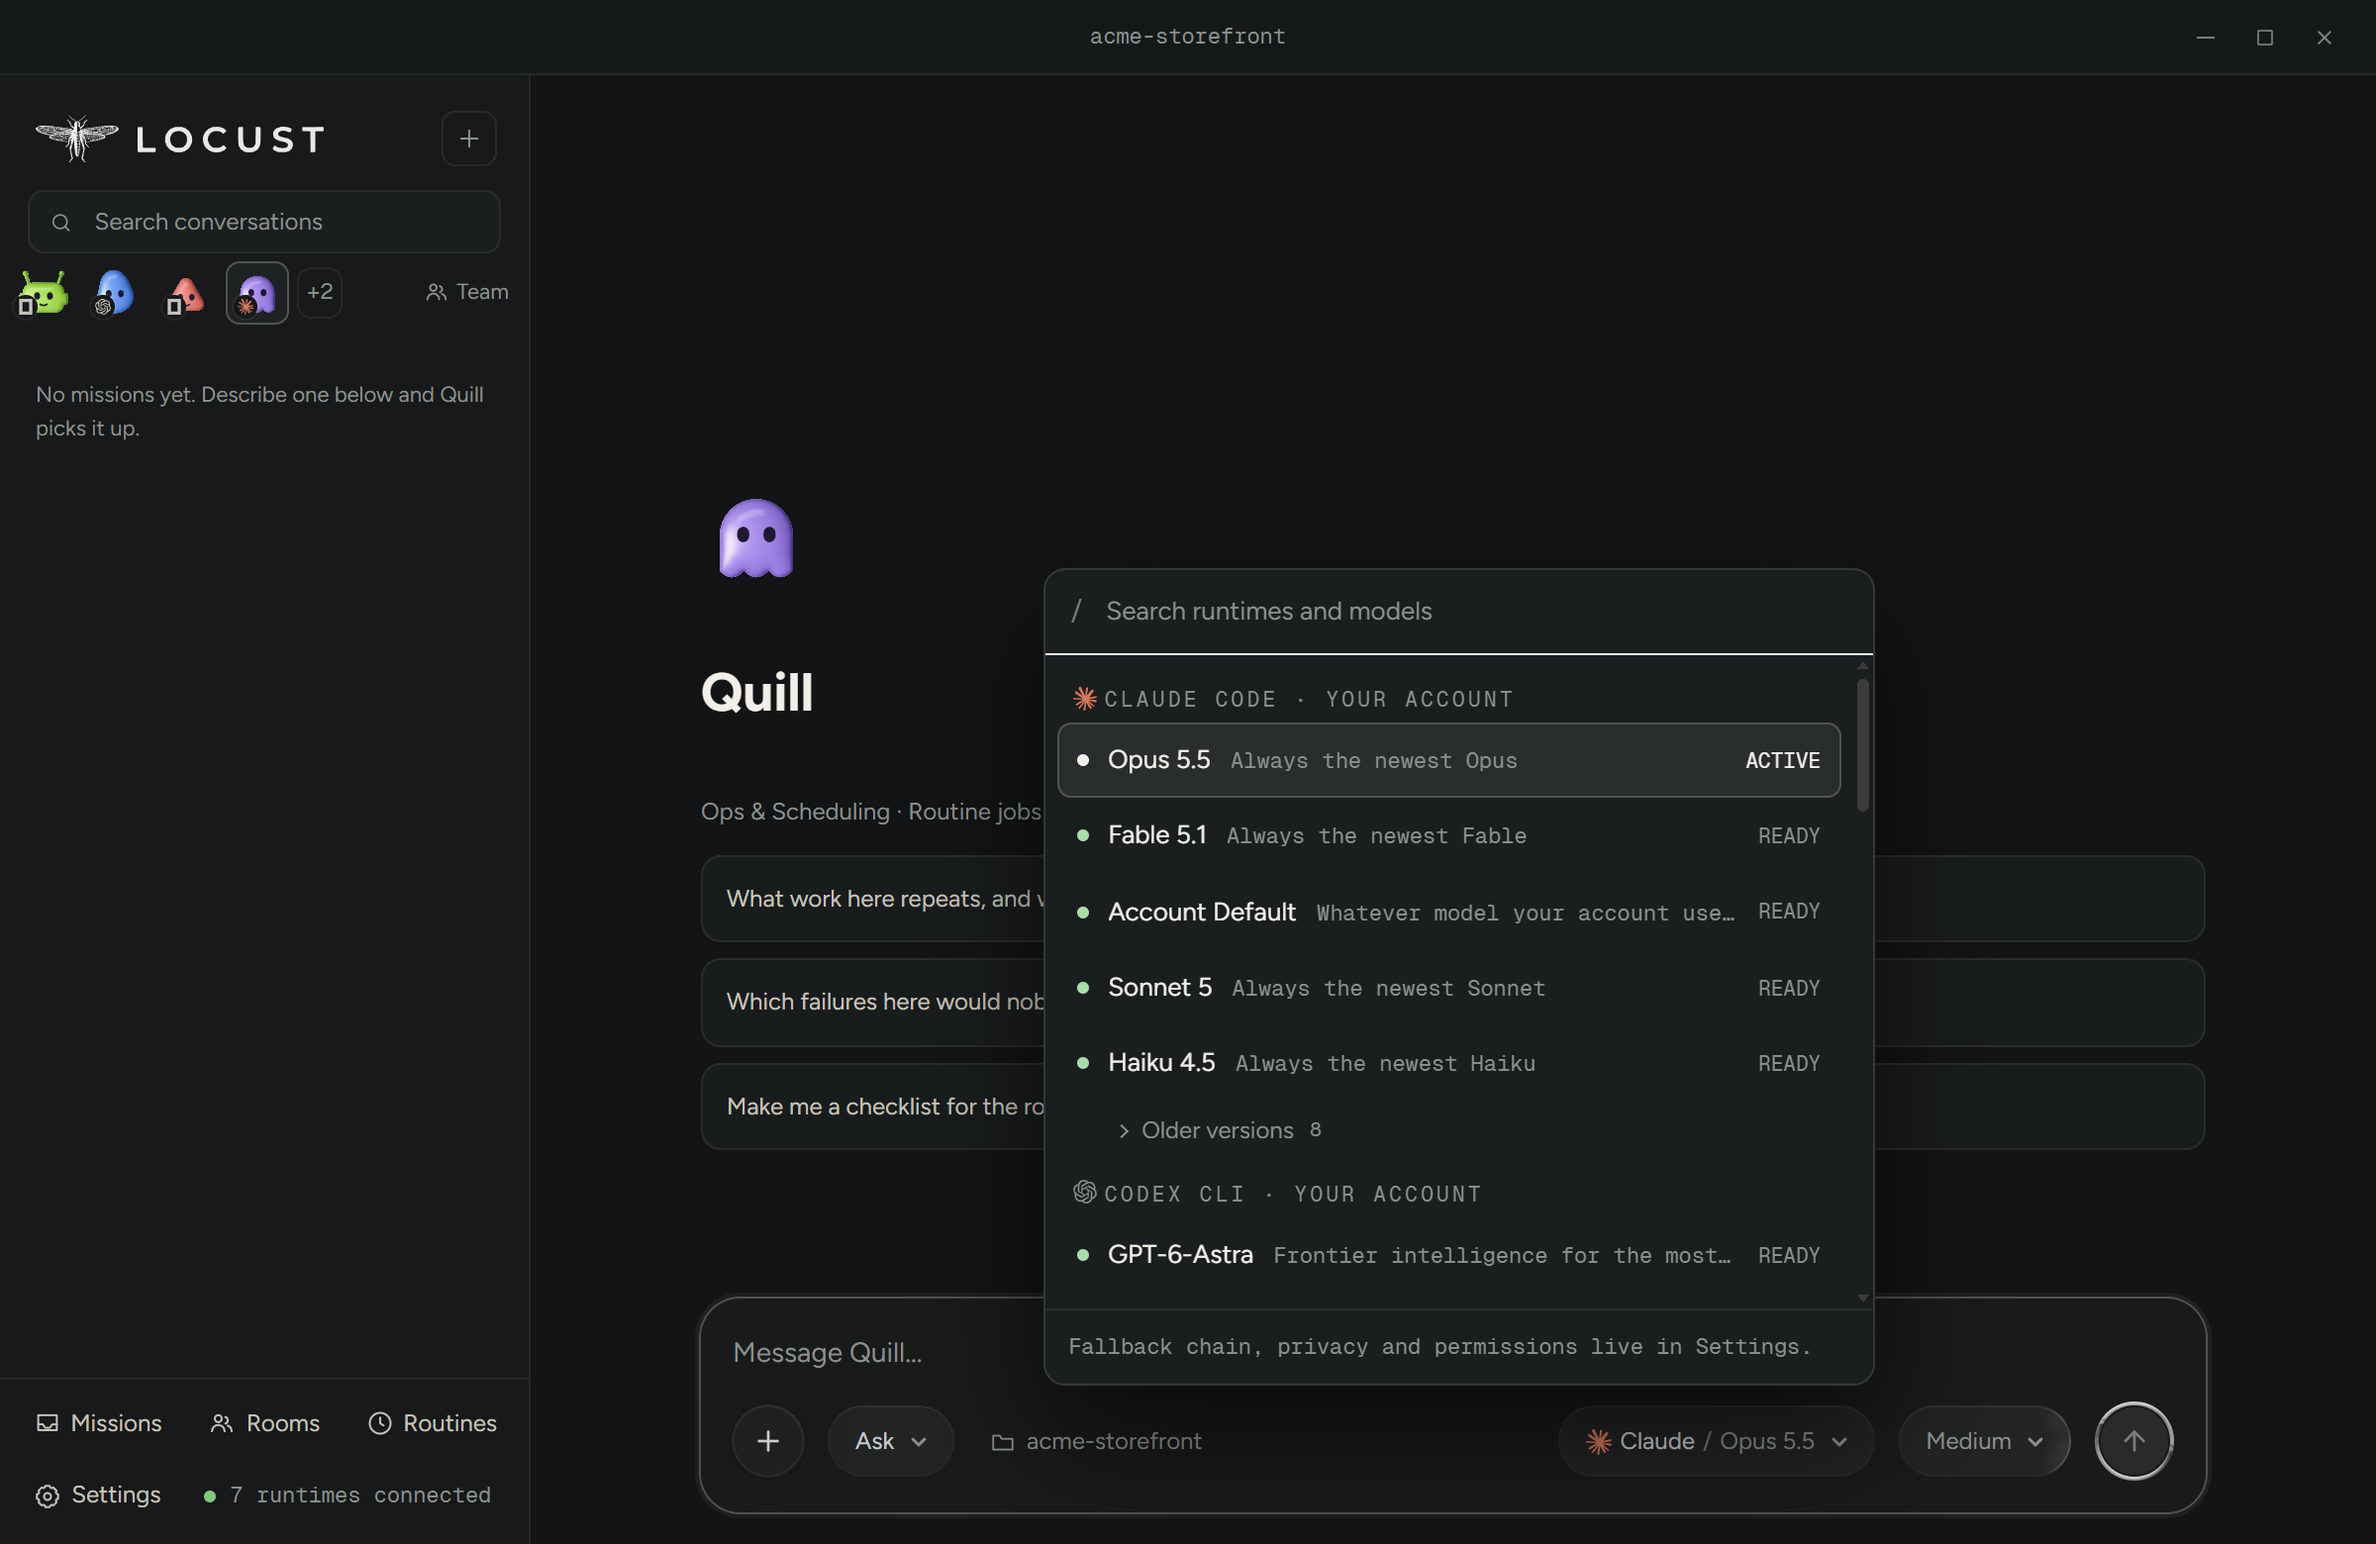
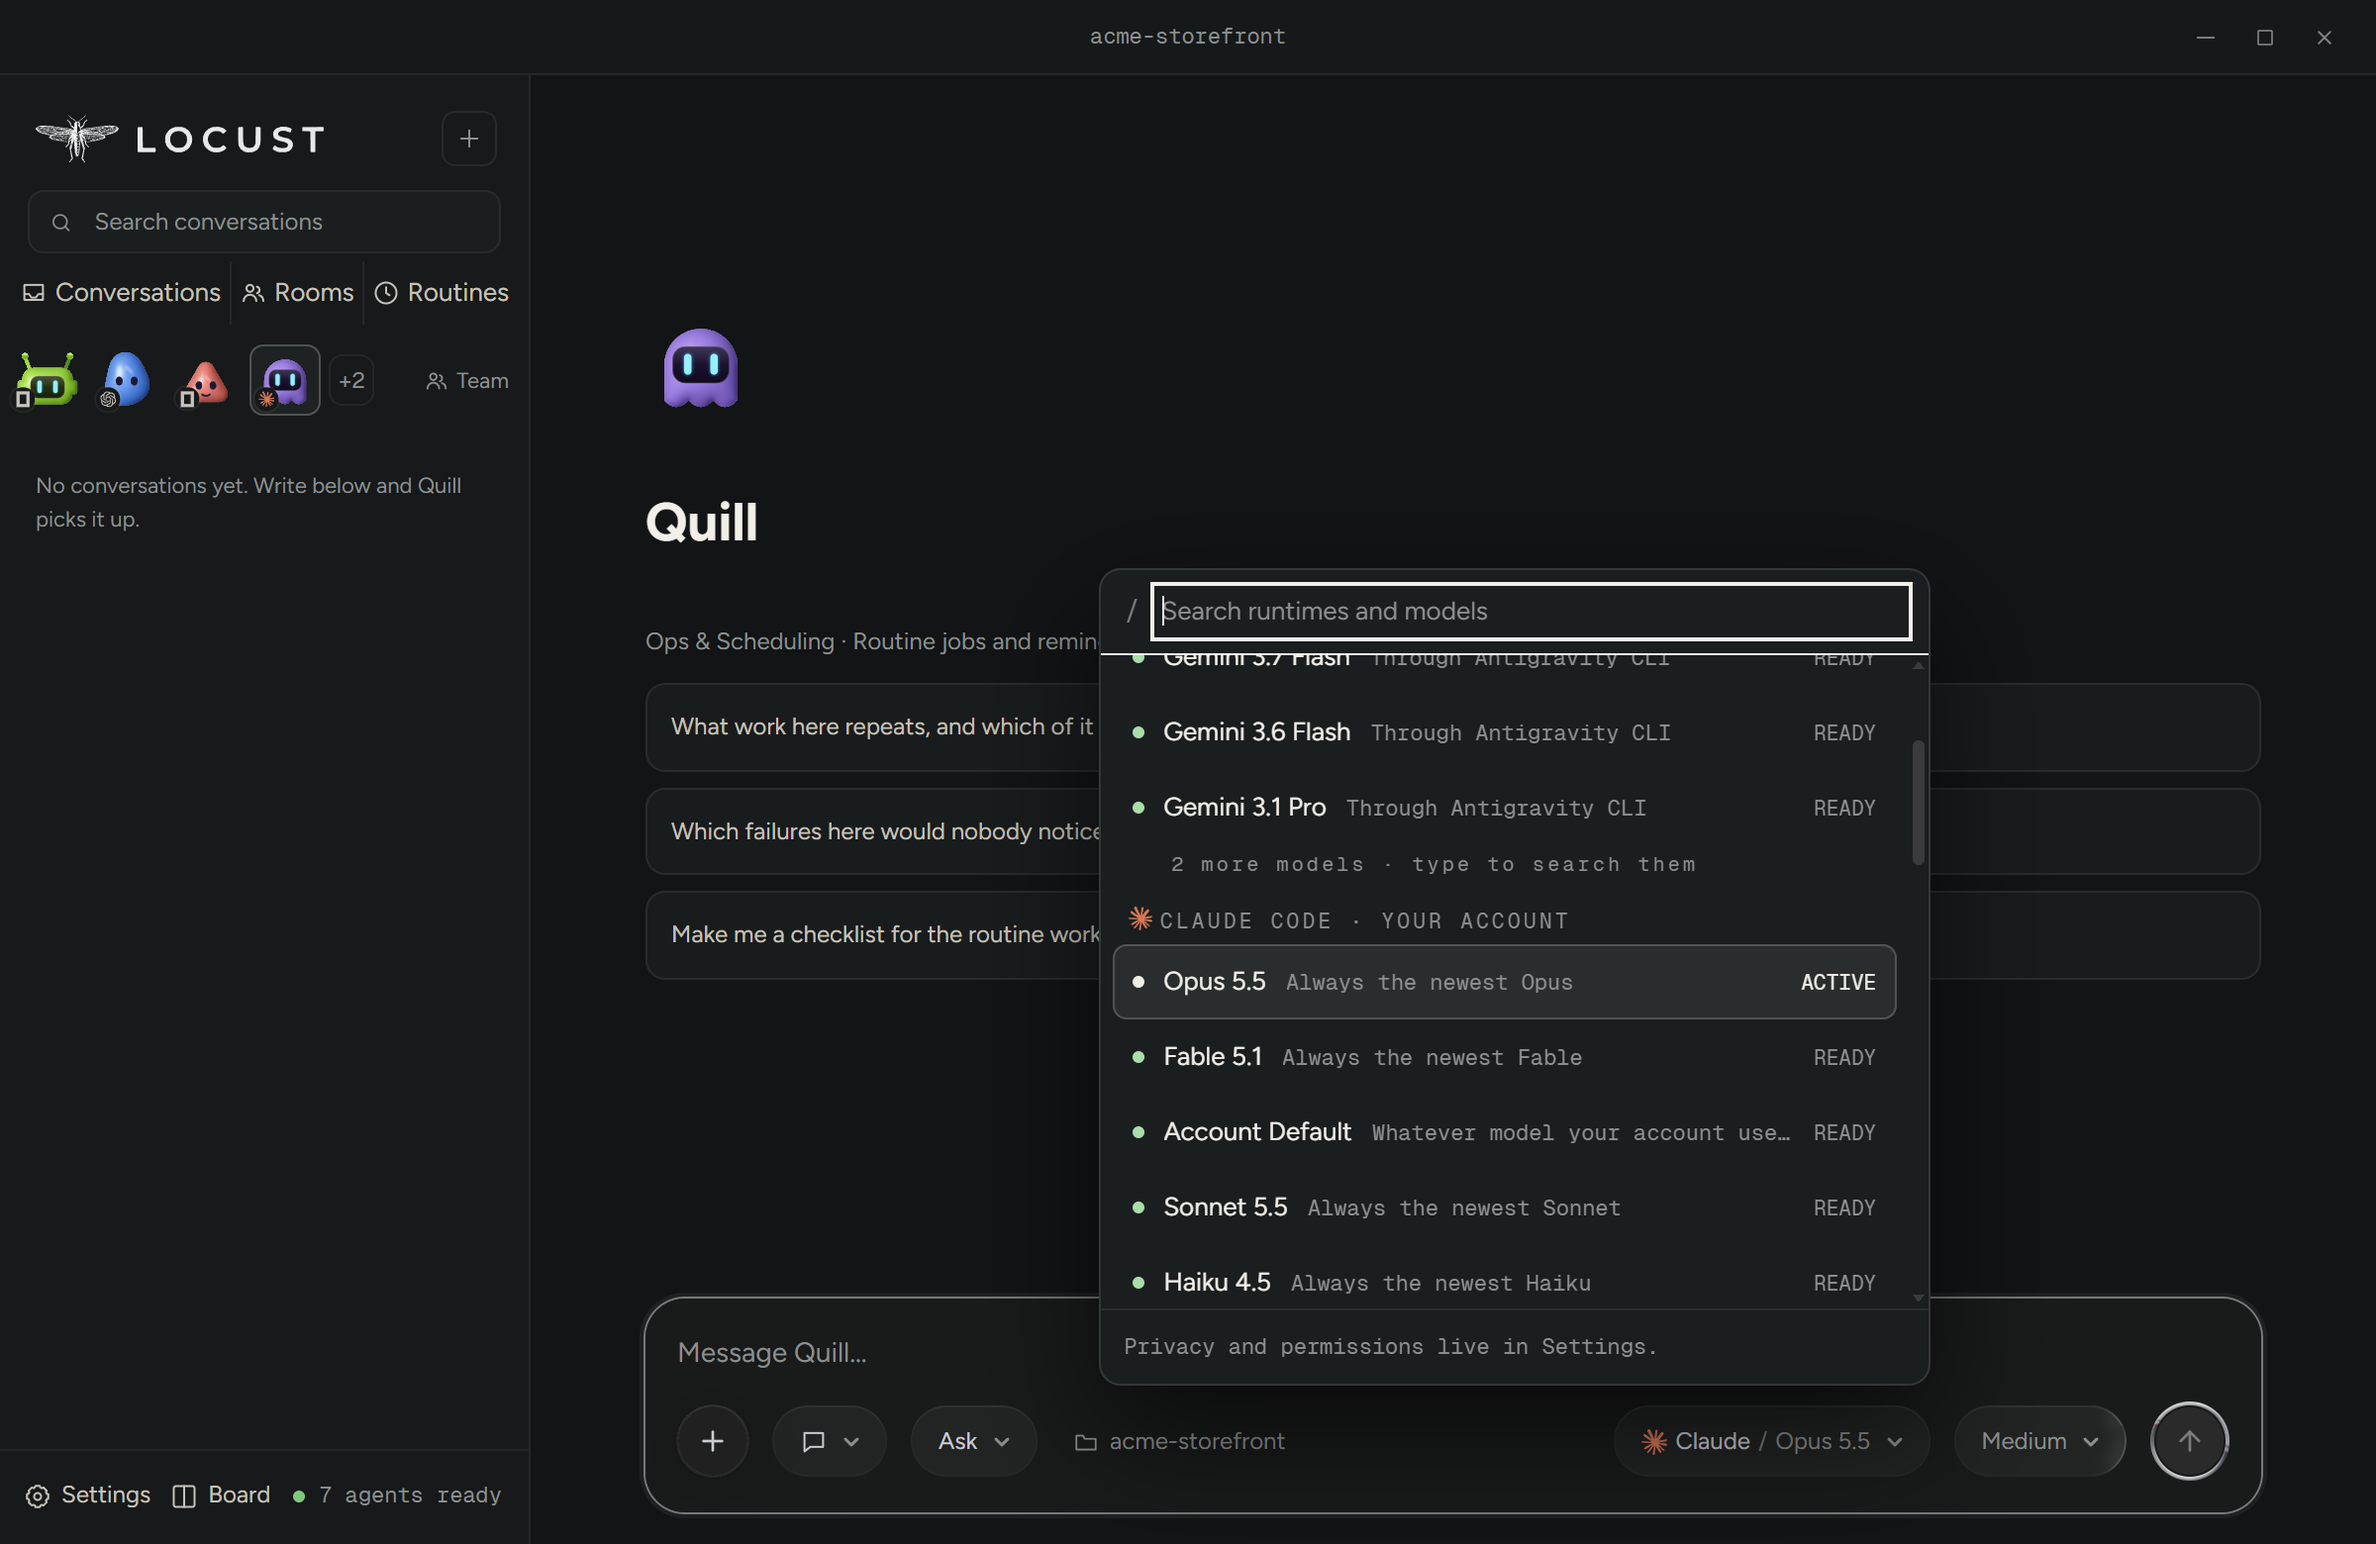
README: eight frames of 0.619 in the table (the site session's captions, each checked against its frame), the nine frames in docs/assets/shots, 'as of 0.620' and the test count re-derived; to-market plan: support address proven end to end, the scan's compound-command item was already built
Claude-Session: https://claude.ai/code/session_01HB3pgxh9aVAXnocTMx6kyP

diff --git a/README.md b/README.md
@@ -19,19 +19,24 @@ is what was recorded, and a mission survives a restart.
 
 <table>
 <tr>
-<td><img src="docs/assets/shots/01-home.png" alt="Home screen with six teammates, each on its own AI"><br><sub>Your team. Each teammate keeps its own AI and model.</sub></td>
-<td><img src="docs/assets/shots/02-model-picker.png" alt="The model picker with Claude Code and Codex models"><br><sub>One picker for the models your own accounts offer.</sub></td>
+<td><img src="docs/assets/shots/01-home.png" alt="Locust home: a team of six, each teammate on its own AI and model, and Connected accounts: 7 ready"><br><sub>Your team of six, each teammate on its own AI and model. Connected accounts: 7 ready.</sub></td>
+<td><img src="docs/assets/shots/02-model-picker.png" alt="The model picker, grouped by agent, with Opus 5.5 marked active and Antigravity, Claude Code and other agents’ models listed"><br><sub>One picker for the models your own accounts offer, grouped by agent, with the one in use marked.</sub></td>
 </tr>
 <tr>
-<td><img src="docs/assets/shots/04-approval.png" alt="An approval card before a command runs"><br><sub>In Approve each, nothing runs until you have seen the exact command and where it runs.</sub></td>
-<td><img src="docs/assets/shots/06-finished.png" alt="The finished change with its diff and a new test"><br><sub>The change, the diff and the new test, right in the thread.</sub></td>
+<td><img src="docs/assets/shots/03-run-in-progress.png" alt="A teammate working in Edit mode with a three-step plan card, step 1 under way"><br><sub>A run in progress: a three-step plan, step 1 under way, the live line naming the step and its time.</sub></td>
+<td><img src="docs/assets/shots/04-approval.png" alt="An Approve each card showing the exact command, where it runs, and four answers"><br><sub>Approve each: before a command runs you see the exact command, where it runs, and what Locust can and cannot tell about it.</sub></td>
 </tr>
 <tr>
-<td colspan="2"><img src="docs/assets/shots/05-hand-off.png" alt="A checker on Codex reads the files and approves an OpenCode teammate's diagnosis"><br><sub>A hand-off chain: Wren (OpenCode) diagnoses, Atlas (Codex) checks the code himself and approves.</sub></td>
+<td><img src="docs/assets/shots/05-hand-off.png" alt="A hand-off chain: Atlas on Codex reads the code and writes VERDICT: APPROVED on Wren’s diagnosis"><br><sub>A hand-off chain: Wren (OpenCode) diagnosed the bug; Atlas (Codex) read the code himself and wrote VERDICT: APPROVED.</sub></td>
+<td><img src="docs/assets/shots/06-finished.png" alt="The finished run: plan 3 of 3 done, two files edited, four tests passing"><br><sub>The finished fix: 2 files edited, a test added, four tests passing, in 1m 01s.</sub></td>
+</tr>
+<tr>
+<td><img src="docs/assets/shots/07-blind-compare.png" alt="A blind compare: Model A and Model B answer the same ask side by side with names hidden, and a judge model can be asked"><br><sub>Blind compare: two models on the same ask, names hidden until you keep one. A judge model can be asked which it would keep.</sub></td>
+<td><img src="docs/assets/shots/09-board.png" alt="The Board: conversations in columns by what they need from you, one under Needs you and one under Done"><br><sub>The Board: every conversation by what it needs from you.</sub></td>
 </tr>
 </table>
 
-<sub>Screenshots from the packaged app on a demo profile (0.437; the hand-off from 0.438). The models in the picker are what that account offers; yours come from your own accounts. Taken by `_tools/drive-promo-shots.mjs`, which runs the missions rather than mocking them. The app has moved on since (teammate looks, the Board, saved approval rules); `CHANGELOG.md` has every release.</sub>
+<sub>Screenshots from the packaged app on a fresh demo profile (0.619.0): real runs, no mocks, taken by `_tools/drive-promo-shots.mjs`. The models shown are what that machine’s accounts offer; yours come from your own accounts.</sub>
 
 ## Why this exists
 
@@ -71,7 +76,7 @@ place to ask, says so where it cannot, and records what happened either way.
 
 ## What works now
 
-As of 0.588 (2026-10-04). Everything here runs in the built app and is checked
+As of 0.620 (2026-10-05). Everything here runs in the built app and is checked
 by drives against the packaged build, not by unit tests alone.
 
 **Seven runtimes, side by side.** Claude Code, Codex CLI, Cursor Agent,
@@ -159,7 +164,7 @@ Run all checks:
 pnpm check
 ```
 
-This builds every workspace package, runs TypeScript checks, and runs the complete test suite (about 9,500 tests across the desktop app, the adapters and the ledger, as of 0.588).
+This builds every workspace package, runs TypeScript checks, and runs the complete test suite (about 9,700 tests across the desktop app, the adapters and the ledger, as of 0.620).
 
 Green tests are not the evidence here. Each package carries a mutation
 control (`test/mutation-control.mjs`) that breaks one behaviour at a time and
